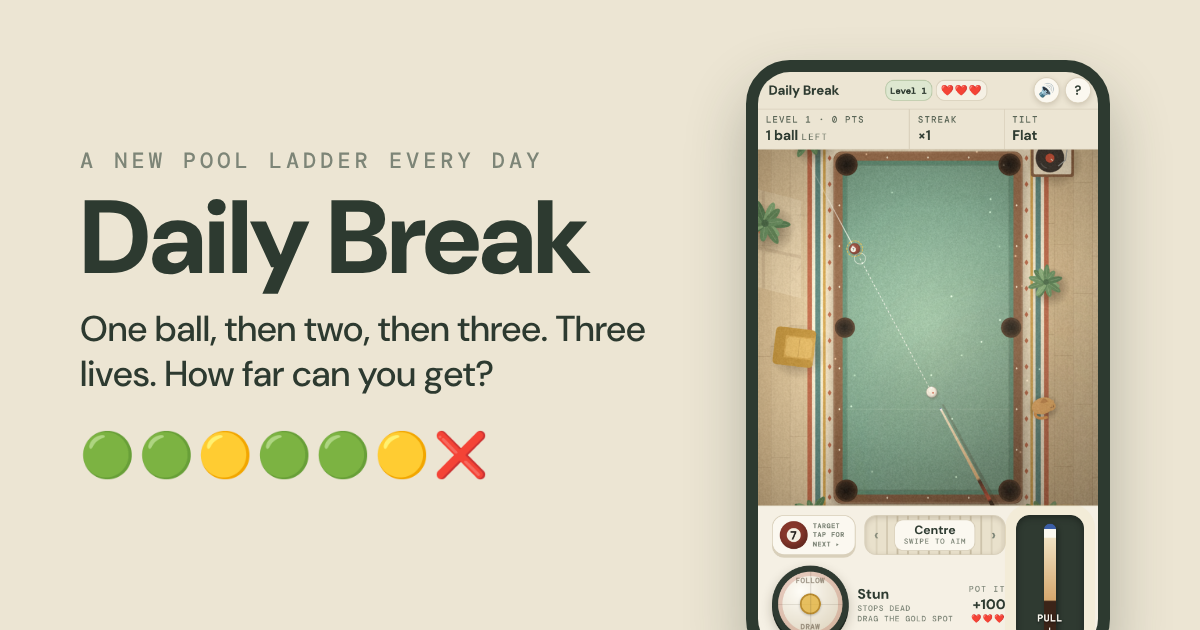
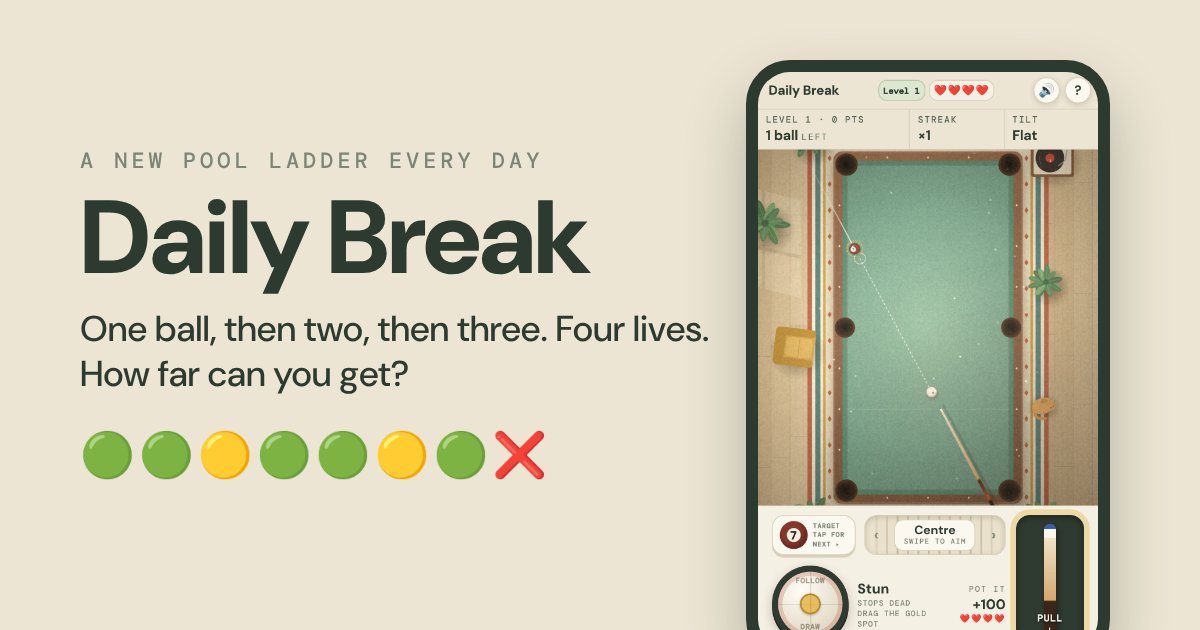
Four lives, no See result button, no background rain/vinyl hiss; preview card updated
Claude-Session: https://claude.ai/code/session_01VmGbx91Fgr5BqxdqZGd9df

diff --git a/index.html b/index.html
@@ -5,12 +5,12 @@
 <meta name="viewport" content="width=device-width,initial-scale=1,maximum-scale=1,viewport-fit=cover">
 <meta name="theme-color" content="#ece5d3">
 <title>Daily Break · a daily pool game</title>
-<meta name="description" content="A daily pool ladder: one ball, then two, then three. Three lives, the same tables for everyone each day. How far can you get?">
+<meta name="description" content="A daily pool ladder: one ball, then two, then three. Four lives, the same tables for everyone each day. How far can you get?">
 <link rel="canonical" href="https://dailybreak.app/">
 <meta property="og:type" content="website">
 <meta property="og:site_name" content="Daily Break">
 <meta property="og:title" content="Daily Break · a daily pool game">
-<meta property="og:description" content="One ball, then two, then three. Three lives, the same tables for everyone each day. How far can you get?">
+<meta property="og:description" content="One ball, then two, then three. Four lives, the same tables for everyone each day. How far can you get?">
 <meta property="og:url" content="https://dailybreak.app/">
 <meta property="og:image" content="https://dailybreak.app/og.png">
 <meta property="og:image:width" content="1200">
@@ -181,7 +181,7 @@
 const W = 500, H = 1000, RAIL = 40, R = 17, DT = 1 / 240, TAU = Math.PI * 2;
 const MAX_SPEED = 2600, ROLL_DECEL = 240, LIN_DAMP = 0.32, STOP = 6;
 const BALL_E = 0.95, BUMPER_E = 0.9, CUSHION_E = 0.78, POT_MAX_SPEED = 1050;
-const LIVES = 3, MAX_BALLS = 15, PX_PER_IN = 10, EPOCH = Date.UTC(2026, 10, 11);   // launch day = Daily Break #1
+const LIVES = 4, MAX_BALLS = 15, PX_PER_IN = 10, EPOCH = Date.UTC(2026, 10, 11);   // launch day = Daily Break #1
 // 0 is the cue ball; 1-8 solids, 9-15 stripes (a level can hold up to 15 balls).
 const COLORS = ['#f4efe2', '#e2b13c', '#3b5ea6', '#c4472f', '#6a4b8c', '#dc7a30', '#3d8758', '#86372b', '#24221f', '#e2b13c', '#3b5ea6', '#c4472f', '#6a4b8c', '#dc7a30', '#3d8758', '#86372b'];
 const POCKETS = [
@@ -558,7 +558,7 @@ const fx = { particles: [], rings: [], floats: [], sinks: [], confetti: [], shak
 let hitStop = 0, spinFx = null, shownPts = 0, swayT = 0;
 
 
-/* ----- audio: effects, rain + vinyl ambience, lazy keys ----- */
+/* ----- audio: effects and lazy keys (no background hiss: the rain/vinyl ambience was removed 10 Nov 2026) ----- */
 
 let rollGain = null, rollFilter = null, audio = null, master, fxBus, verb, musicBus, ambBus, noiseBuf, lastHit = 0, musicTimer = null, chordIdx = 0;
 let muted = ls('dailybreak:muted') === '1', musicOn = ls('dailybreak:music') !== '0';
@@ -578,7 +578,6 @@ function ensureAudio() {
     noiseBuf = audio.createBuffer(1, audio.sampleRate * 3, audio.sampleRate);
     const data = noiseBuf.getChannelData(0);
     for (let i = 0; i < data.length; i++) data[i] = Math.random() * 2 - 1;
-    startAmbience();
     // the low rumble of balls rolling on the cloth: its level follows how fast everything is moving
     const rs = audio.createBufferSource(), rf = audio.createBiquadFilter();
     rs.buffer = noiseBuf; rs.loop = true; rf.type = 'lowpass'; rf.frequency.value = 260; rf.Q.value = 0.9;
@@ -622,20 +621,6 @@ function noise(dur, vol, freq, type = 'lowpass', delay = 0, q = 0.7, bus = fxBus
   src.buffer = noiseBuf; f.type = type; f.frequency.value = freq; f.Q.value = q;
   g.gain.setValueAtTime(Math.max(0.0002, vol), t); g.gain.exponentialRampToValueAtTime(0.0001, t + dur);
   src.connect(f).connect(g); out(g, bus); src.start(t, Math.random() * 2, dur + 0.05);
-}
-function startAmbience() {
-  // soft rain on the window
-  const src = audio.createBufferSource(), hp = audio.createBiquadFilter(), lp = audio.createBiquadFilter(), g = audio.createGain();
-  src.buffer = noiseBuf; src.loop = true; hp.type = 'highpass'; hp.frequency.value = 400; lp.type = 'lowpass'; lp.frequency.value = 1600; g.gain.value = 0.035;
-  src.connect(hp).connect(lp).connect(g).connect(ambBus); src.start();
-  const lfo = audio.createOscillator(), lg = audio.createGain();
-  lfo.frequency.value = 0.07; lg.gain.value = 0.012; lfo.connect(lg).connect(g.gain); lfo.start();
-  // vinyl crackle and the odd heavier raindrop
-  setInterval(() => {
-    if (!audio || muted || document.hidden) return;
-    for (let k = 0; k < 3; k++) if (Math.random() < 0.45) noise(0.004 + Math.random() * 0.006, 0.02 + Math.random() * 0.05, 2500 + Math.random() * 3000, 'highpass', Math.random() * 0.12, 0.7, ambBus);
-    if (Math.random() < 0.08) noise(0.03, 0.03, 900, 'bandpass', Math.random() * 0.1, 3, ambBus);
-  }, 120);
 }
 const CHORDS = [[146.83, 174.61, 220, 261.63, 329.63], [98, 174.61, 246.94, 329.63], [130.81, 164.81, 246.94, 293.66], [110, 196, 261.63, 329.63]];
 function epiano(f, t, len, vol) {
@@ -992,7 +977,7 @@ function updateUI() {
   $('iHole').innerHTML = `Level ${round.level + 1} · <span id="ptsVal">${shownPts.toLocaleString()}</span> pts<b>${left} ball${left === 1 ? '' : 's'}<small>left</small></b>`;
   $('iLie').innerHTML = `Streak<b${hs.streak ? ' style="color:#c4472f"' : ''}>${hs.streak ? `🔥 ×${streakMult(hs.streak + 1)}` : '×1'}</b>`;
   $('iTilt').innerHTML = `Tilt<b>${hole.tilt.mag ? `${TILT_ARROWS[hole.tilt.dir]} ${Math.max(1, Math.round(hole.tilt.mag / 12))}°` : 'Flat'}</b>`;
-  const b = $('act'), labels = { over: 'See result' };   // a cleared level moves on by itself
+  const b = $('act'), labels = {};   // no button: a cleared level moves on and the result card opens by themselves
   b.classList.toggle('show', !!labels[phase]); b.textContent = labels[phase] || '';
   const aiming = phase === 'aim';
   $('strip').classList.toggle('off', !aiming); $('rowB').classList.toggle('off', !aiming); $('pull').classList.toggle('off', !aiming && !hold); $('next').disabled = !aiming;
@@ -1073,7 +1058,7 @@ function showIntro() {
     <h2>How far can you get?</h2>
     <div class="howto">
       <p>🎱 Pot every ball to clear a level. Level 1 has one ball, level 2 two, and so on.</p>
-      <p>❤ You have 3 lives. A miss costs one (level 1 is a free warm-up).</p>
+      <p>❤ You have 4 lives. A miss costs one (level 1 is a free warm-up).</p>
       <p>👇 Pull the cue down and let go to shoot. Tap <b>?</b> any time for the full guide.</p>
     </div>
     <div class="row"><button class="btn primary" data-close>Let's play</button></div>`;
@@ -1085,7 +1070,7 @@ function showHelp() {
     <h2>How far can you get?</h2>
     <div class="howto">
       <p>🎱 <b>Level 1</b> has one ball. Pot it and <b>level 2</b> has two, then three, and so on. Clear every ball to move up.</p>
-      <p>❤ You have <b>3 lives</b>. A miss or a foul (scratch, or hitting nothing) costs one, except on level 1, which is a free warm-up. Clear a level without losing one and you <b>win a life back</b>. Lose them all and the run is over.</p>
+      <p>❤ You have <b>4 lives</b>. A miss or a foul (scratch, or hitting nothing) costs one, except on level 1, which is a free warm-up. Clear a level without losing one and you <b>win a life back</b>. Lose them all and the run is over.</p>
       <p>Each shot runs top to bottom through the controls:</p>
       <p>1 · <b>Target:</b> the cue starts lined up on the easiest ball. The <b>target</b> button steps through the others (or tap a ball on the table).</p>
       <p>2 · <b>Aim:</b> swipe the <b>aim strip</b> left or right; slow swipes are fine, fast swipes turn further. A tap near either end nudges a hair. You can also drag anywhere on the table to turn the cue. The dotted line shows where the object ball will go.</p>

diff --git a/HANDOFF.md b/HANDOFF.md
@@ -1,7 +1,7 @@
 # Daily Break - handoff
 
 A daily pool game for the browser: a ladder of levels, the same for everyone
-each day. Level 1 has one ball, level 2 two, and so on; you have three lives,
+each day. Level 1 has one ball, level 2 two, and so on; you have four lives,
 and your score is how far you get. One ranked run a day of about two to four
 minutes (daily puzzles like the NYT Mini take a few minutes; that's the
 target), with a shareable emoji result. Single file: `index.html` (no build, open it in a
@@ -11,7 +11,7 @@ browser).
 
 Level *i* (1-based) is a fresh seeded layout of *i* balls (`makeHole(seed, i - 1)`, up to `MAX_BALLS` = 15; numbers drawn from 1–15, 9–15 drawn as stripes), the same for everyone on the day, with the cue ball placed by the layout. About a third of the balls sit in clusters and some on the cushions; pockets are tight (corner capture 1.75 R, side 1.55 R). Hazards start at level 3 and ramp up (`hz` = level − 2, capped at 8): table tilt, rough felt, slick felt, brass bumpers and an occasional closed pocket. **The first shot of every level is always a real pot:** `makeHole` re-rolls (deterministically) until `openingPot` finds an unblocked, not-too-thin cut that a centre-ball hit at a sensible pace actually sinks in simulation (tilt and felt included) without scratching. **And the whole level must be clearable:** `clearable` plays it with a bot of perfect execution (each shot: the best 4 pots × stun/follow/draw × three paces, keeping the one with the best next pot via `leaveQ`) and must clear all N balls in N shots without a foul; otherwise the layout is re-rolled (up to 60 tries, falling back to the first with a good opener). Before this check, 20–65% of levels 4–10 were impossible to clear even with perfect play (frozen pairs on a rail, balls tucked behind others). Generation averages 3–36 ms per level (worst seen ~150 ms at level 12); results are cached (`holeCache`) and the next level is built in the background 1.5 s into the current one.
 
-**Lives** (`LIVES` = 3): a shot that pots nothing, or a foul (no contact, scratch), costs a life; balls that drop on a foul stay down. Clear every ball to move up; clearing a level without losing a life wins one back (up to 3). At zero lives the run ends on the level you were playing (`endRun`). Within a level the cue ball stays where it stops, so position play matters. There is no shot limit and no ball order.
+**Lives** (`LIVES` = 4, raised from 3 on 10 Nov 2026): a shot that pots nothing, or a foul (no contact, scratch), costs a life; balls that drop on a foul stay down. Clear every ball to move up; clearing a level without losing a life wins one back (up to 4). At zero lives the run ends on the level you were playing (`endRun`). Within a level the cue ball stays where it stops, so position play matters. There is no shot limit and no ball order.
 
 A shot (built for one thumb on a phone). The controls run in play order, top to bottom: target → aim → power → strike.
 
@@ -44,8 +44,8 @@ all / effects only / off, and help; the course name shows in the level 1
 banner instead), info bar (level, points and balls left, streak multiplier,
 tilt), then the controls in play order: target button and aim strip, spin ball,
 and the pull-back cue down the right.
-Sound: clacks, cushions, pockets, rising pot notes for streaks, aim ticks, rain and vinyl
-ambience, and an electric-piano loop.
+Sound: clacks, cushions, pockets, rising pot notes for streaks, aim ticks and an electric-piano loop.
+The rain-and-vinyl hiss under everything was removed on 10 Nov 2026 (it read as background noise).
 
 ## Code layout
 
@@ -60,7 +60,7 @@ ambience, and an electric-piano loop.
 
 ## Next ideas
 
-- Playtest the difficulty: `LIVES` (3), the life refill rule, when hazards
+- Playtest the difficulty: `LIVES` (4), the life refill rule, when hazards
   start (level 3) and the release wobble (`contactDiff`) are the main knobs.
 - Daily streak and stats on the result card; a countdown to tomorrow's run.
 - Replay of the best shot at the end of a run.
